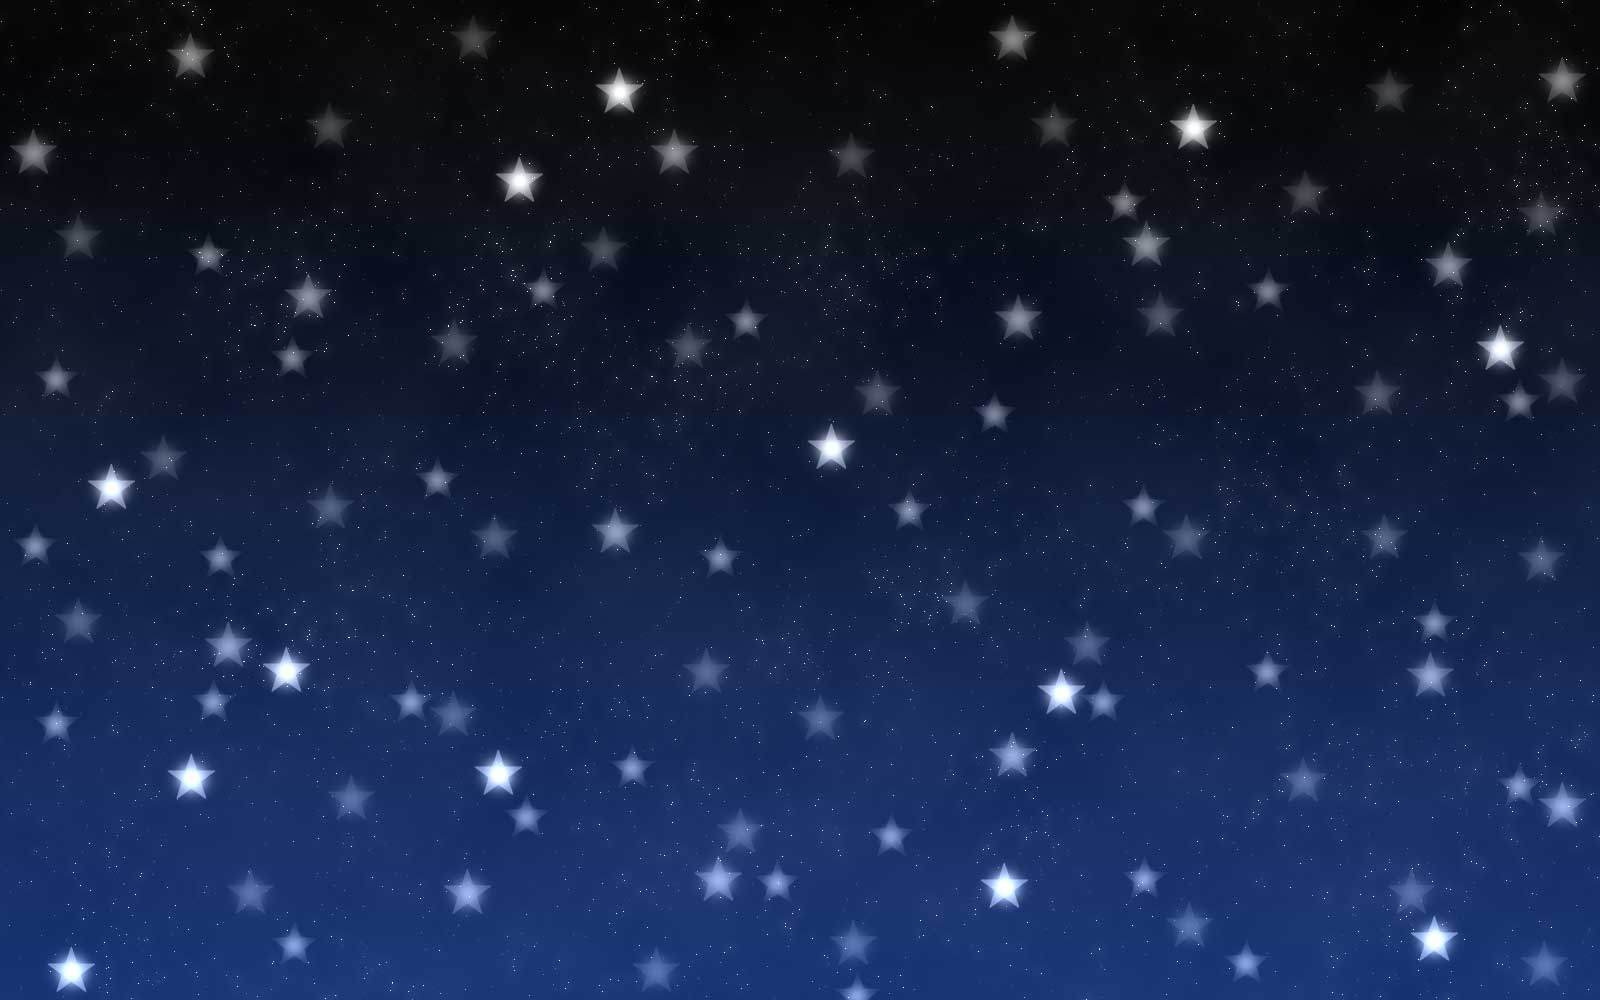
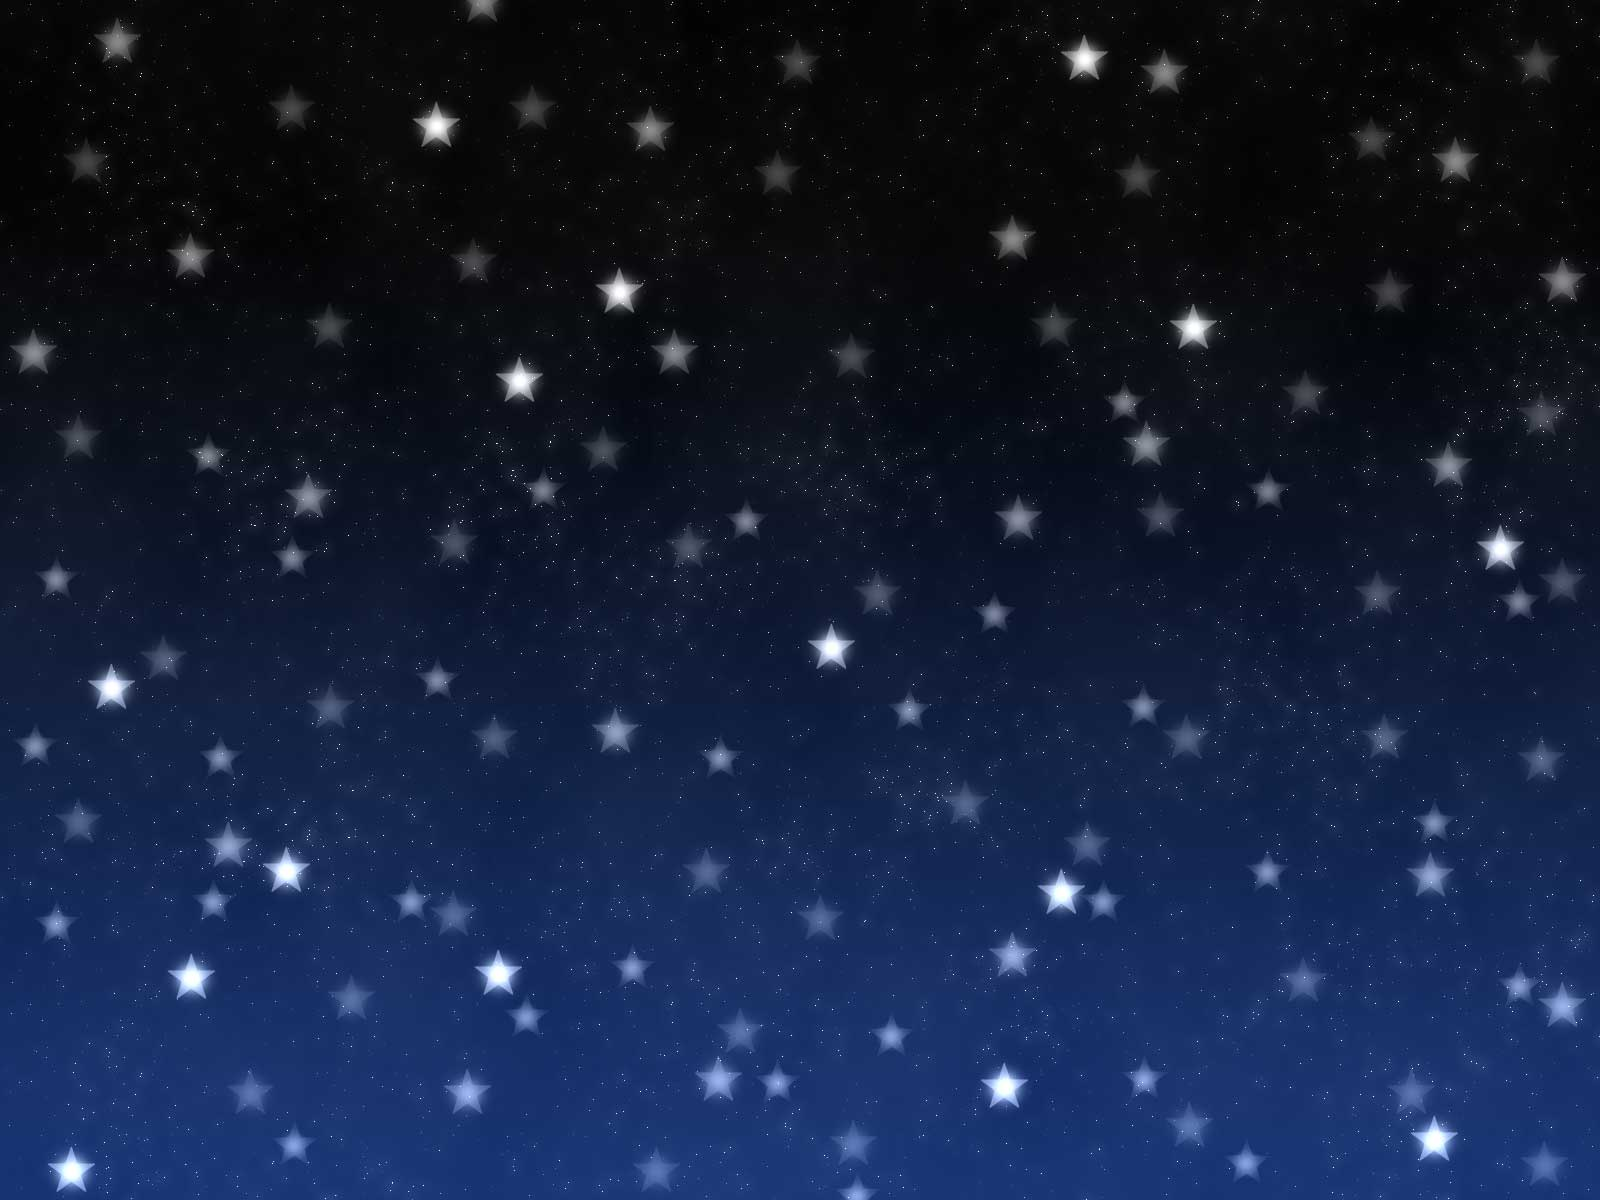
[fix] Title styling
Incl:
+ ribbon behind title text
+ extended background image

diff --git a/public/pgstyle.css b/public/pgstyle.css
@@ -40,16 +40,25 @@ table, ul
   background: pink;
 }
 
-h1.nav
+.nav
 {
-  background: rgb(255, 0, 0, .5);
-  padding: 0 .5em;
+  height: 100px;
+  background-image: url("ribbon.png");
+  background-size: 100% 100%;
+
   /*
+  background: rgb(255, 0, 0, .5);
   position: absolute;
   top: 0;
   left: 0;
   width: 100vw;
   */
+}
+
+.nav h1
+{
+  padding: 20px .5em;
+  margin: 10px;
 }
 
 h2
